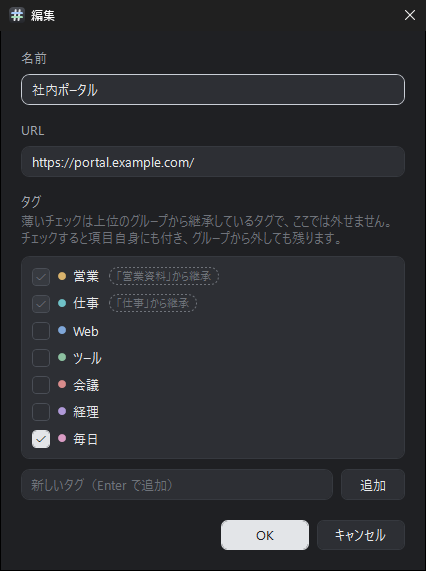
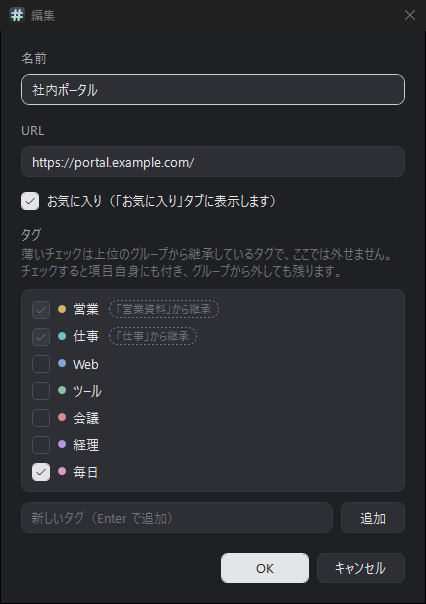
お気に入りの薄い星を常に表示し、編集画面にもお気に入りのチェックを追加する

diff --git a/docs/portfolio/guide.html b/docs/portfolio/guide.html
@@ -209,7 +209,7 @@
     <div class="screen-row">
       <figure><img src="images/favorites.png" alt="お気に入りタブ"><figcaption>お気に入りにした項目だけが並びます（架空のサンプル）</figcaption></figure>
       <ol class="points">
-        <li>行の先頭の ☆ をクリックすると、お気に入りになります（マウスを乗せると ☆ が出ます）。<br>右クリックの「お気に入りに追加」や、Ctrl + D でも同じです。<br>もう一度同じ操作をすると外れます。</li>
+        <li>行の先頭の薄い ☆ をクリックすると、お気に入りになり ★ に変わります。<br>右クリックの「お気に入りに追加」や、Ctrl + D、「編集」画面の「お気に入り」でも同じです。<br>もう一度同じ操作をすると外れます。</li>
         <li>どのグループに入っている項目でも、まとめて一覧にできます。<br>右側に、どのグループにあるかを表示します。</li>
         <li>タグを作るときのように名前を決める必要がないので、「お気に入り」「ブックマーク」のような似た名前が増えません。</li>
         <li>検索欄や上の段のタグと組み合わせて、お気に入りの中から絞り込めます。</li>
@@ -243,7 +243,7 @@
     <div class="screen-row">
       <figure><img src="images/edit.png" alt="編集画面"><figcaption>Web ページの項目を編集しているところ（架空のサンプル）</figcaption></figure>
       <ol class="points">
-        <li>項目を右クリックして「編集…」を選ぶか、F2 を押すと開きます。<br>名前と、ファイル・フォルダーの場所または URL を変更できます。<br>ファイルとフォルダーは「参照…」で選び直せます。</li>
+        <li>項目を右クリックして「編集…」を選ぶか、F2 を押すと開きます。<br>名前と、ファイル・フォルダーの場所または URL を変更できます。<br>ファイルとフォルダーは「参照…」で選び直せます。<br>「お気に入り」のチェックで、お気に入りにするかどうかも選べます。</li>
         <li>薄いチェックは、上位のグループから引き継いでいるタグです。<br>どのグループから引き継いでいるかが表示されます。<br>チェックすると、項目自身にもタグが付きます。</li>
         <li>下の欄にタグ名を入力して Enter を押すと、新しいタグを作れます。</li>
         <li>複数の項目を選んでいるときは、右クリックの「タグを編集…」で、タグだけをまとめて変更できます。</li>

diff --git a/src/DesktopLauncher/MainWindow.xaml b/src/DesktopLauncher/MainWindow.xaml
@@ -161,8 +161,8 @@
             </Setter>
         </Style>
 
-        <!-- Star at the start of a row; click to toggle. A favorite shows a filled star, other items an outline
-             only while the row is hovered. Groups keep the space empty so that icons stay aligned. -->
+        <!-- Star at the start of a row; click to toggle. A favorite shows a filled star, other items a faint outline
+             that brightens while the row is hovered. Groups keep the space empty so that icons stay aligned. -->
         <Style x:Key="FavoriteStar" TargetType="Button">
             <Setter Property="Tag" Value="star" />
             <Setter Property="Width" Value="18" />
@@ -176,7 +176,7 @@
                     <ControlTemplate TargetType="Button">
                         <Border Background="Transparent">
                             <TextBlock x:Name="Glyph" Text="&#xE734;" Style="{StaticResource Glyph}" FontSize="12"
-                                       Foreground="{StaticResource TextTertiaryBrush}" Opacity="0" />
+                                       Foreground="{StaticResource TextTertiaryBrush}" Opacity="0.45" />
                         </Border>
                         <ControlTemplate.Triggers>
                             <DataTrigger Binding="{Binding IsMouseOver, RelativeSource={RelativeSource AncestorType=DockPanel}}" Value="True">

diff --git a/src/DesktopLauncher/EditWindow.xaml b/src/DesktopLauncher/EditWindow.xaml
@@ -18,6 +18,7 @@
                             Click="Browse_Click" />
                     <TextBox x:Name="PathBox" AutomationProperties.Name="{Binding Text, ElementName=PathLabel}" />
                 </DockPanel>
+                <CheckBox x:Name="FavoriteBox" Margin="0,14,0,0" Content="お気に入り（「お気に入り」タブに表示します）" />
             </StackPanel>
             <TextBlock Text="タグ" Margin="0,16,0,0" Style="{StaticResource SecondaryText}" />
         </StackPanel>

diff --git a/src/DesktopLauncher/EditWindow.xaml.cs b/src/DesktopLauncher/EditWindow.xaml.cs
@@ -92,6 +92,9 @@ public partial class EditWindow : Window
     /// <summary>The new path or URL for a single item; null when unchanged.</summary>
     public string? NewPath { get; private set; }
 
+    /// <summary>Whether a single item is a favorite (always false for a group).</summary>
+    public bool IsFavorite => _kind != EditKind.Group && FavoriteBox.IsChecked == true;
+
     /// <summary>Tags to add to every node.</summary>
     public IReadOnlyList<string> AddedTags { get; private set; } = [];
 
@@ -150,6 +153,7 @@ public partial class EditWindow : Window
             _ => "ファイルの場所",
         };
         if (_kind != EditKind.Group) PathBox.Text = node.Path;
+        FavoriteBox.IsChecked = node.IsFavorite;
     }
 
     private void Browse_Click(object sender, RoutedEventArgs e)

diff --git a/src/DesktopLauncher/MainWindow.xaml.cs b/src/DesktopLauncher/MainWindow.xaml.cs
@@ -281,6 +281,7 @@ public partial class MainWindow : Window
         if (nodes is [var single])
         {
             single.Name = dialog.NewName;
+            single.IsFavorite = dialog.IsFavorite;
             if (dialog.NewPath is { } path)
             {
                 var old = single.Path;
